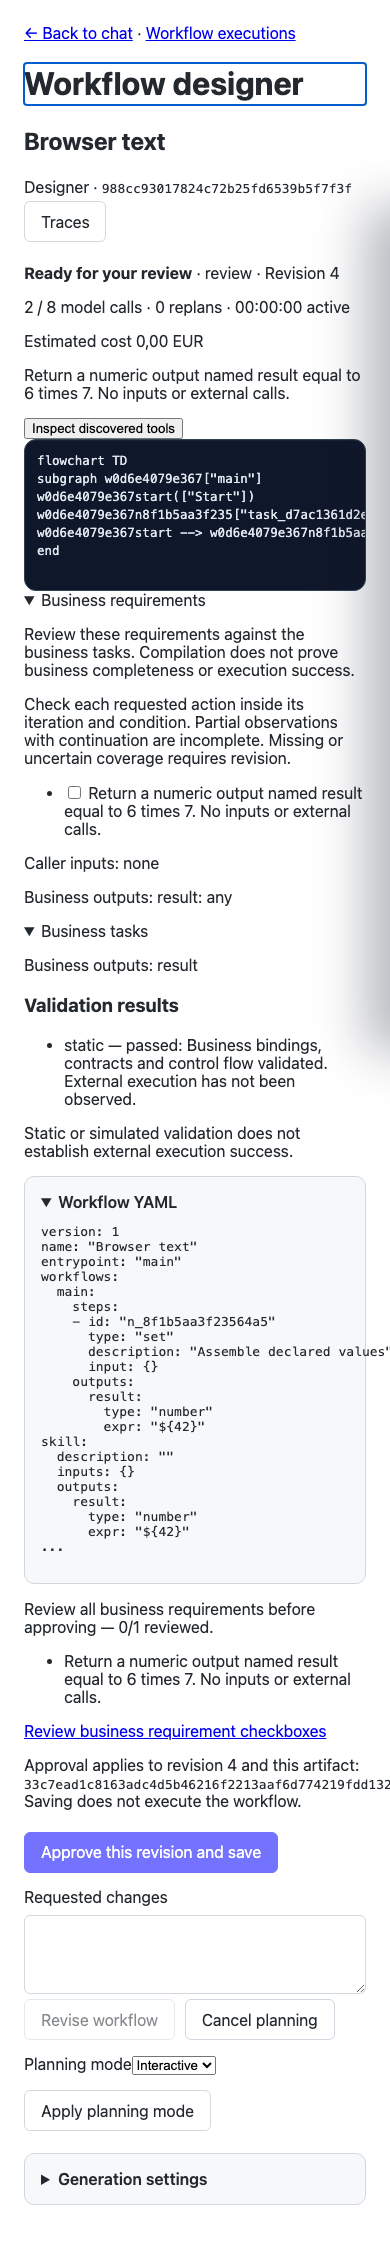
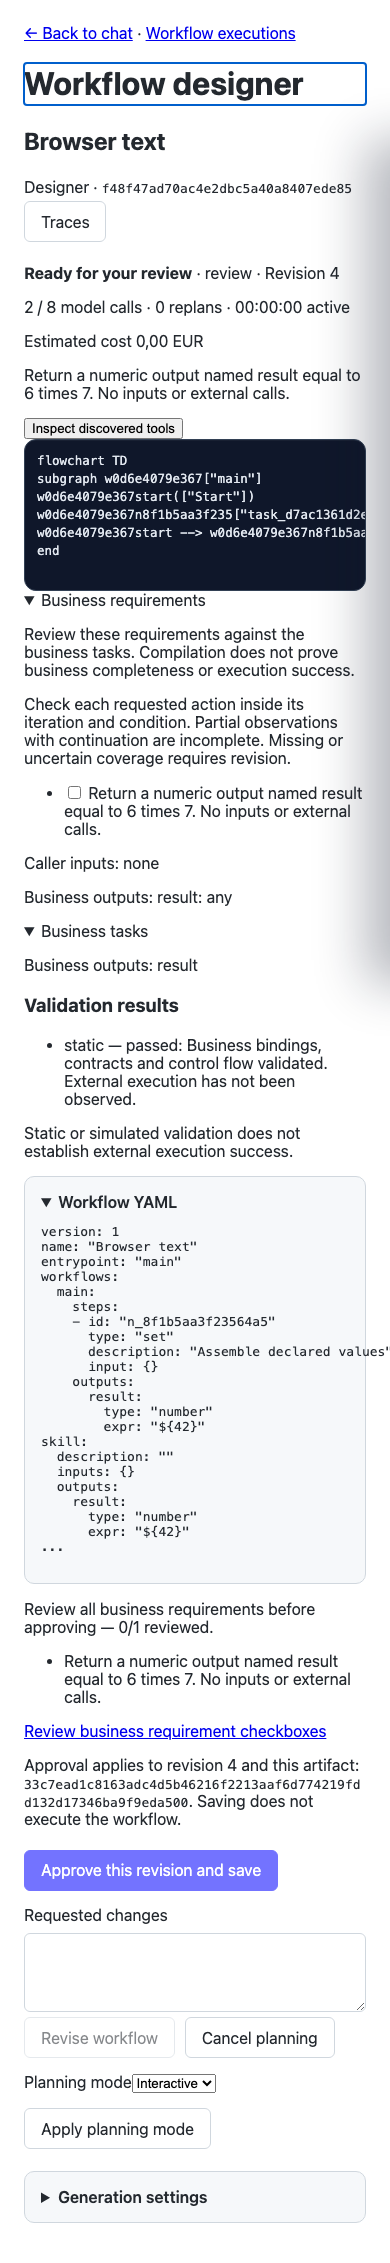
Keep the complete approval hash readable on narrow screens

diff --git a/src/GnOuGo.Agent.Server/ClientApp/src/styles/app.scss b/src/GnOuGo.Agent.Server/ClientApp/src/styles/app.scss
@@ -2811,3 +2811,8 @@ html, body {
     grid-template-columns: 1fr;
   }
 }
+
+#approval-artifact-help code {
+  overflow-wrap: anywhere;
+  white-space: normal;
+}

diff --git a/docs/evidence/designer-approval-2026-10-13/validation.md b/docs/evidence/designer-approval-2026-10-13/validation.md
@@ -8,7 +8,7 @@ All model adapters and hosts used for this correction are disposable and determi
 - All nine new local execution variants pass: complete, one, null URL, missing facts, repeated IDs, unknown ID, unoffered ID, incomplete acquisition and denied writing. Eight passed in the first integrated run; the corrected negative-path fixture passed separately. The initial failed harness attempts remain in `failed-attempts/`.
 - 116 existing Planning targeted-revision, approval and recovery regressions pass with `-warnaserror`.
 - Existing approval/save/restart lifecycle checks pass in the 52 successful checks of the intermediate UI run. Its remaining failure was the keyboard focus behavior, subsequently corrected and verified by the actual browser test.
-- Agent.Server frontend production build passes. The package has no separate frontend unit-test, lint or type-check scripts; Razor interaction tests and the real browser smoke cover the affected UI.
+- Agent.Server frontend production build passes. A final real-browser rerun also verifies that every character of the approval hash remains visible on mobile. The package has no separate frontend unit-test, lint or type-check scripts; Razor interaction tests and the real browser smoke cover the affected UI.
 - Exact saved-state continuation validates both receipts under their original schemas, reaches review with three deterministic responses, reproduces the new artifact exactly, and requests nothing after review restart. Original storage hashes remain unchanged.
 
 The full serial solution and final candidate CI results are reported in the final PR report; pending checks are not counted as passed here.
